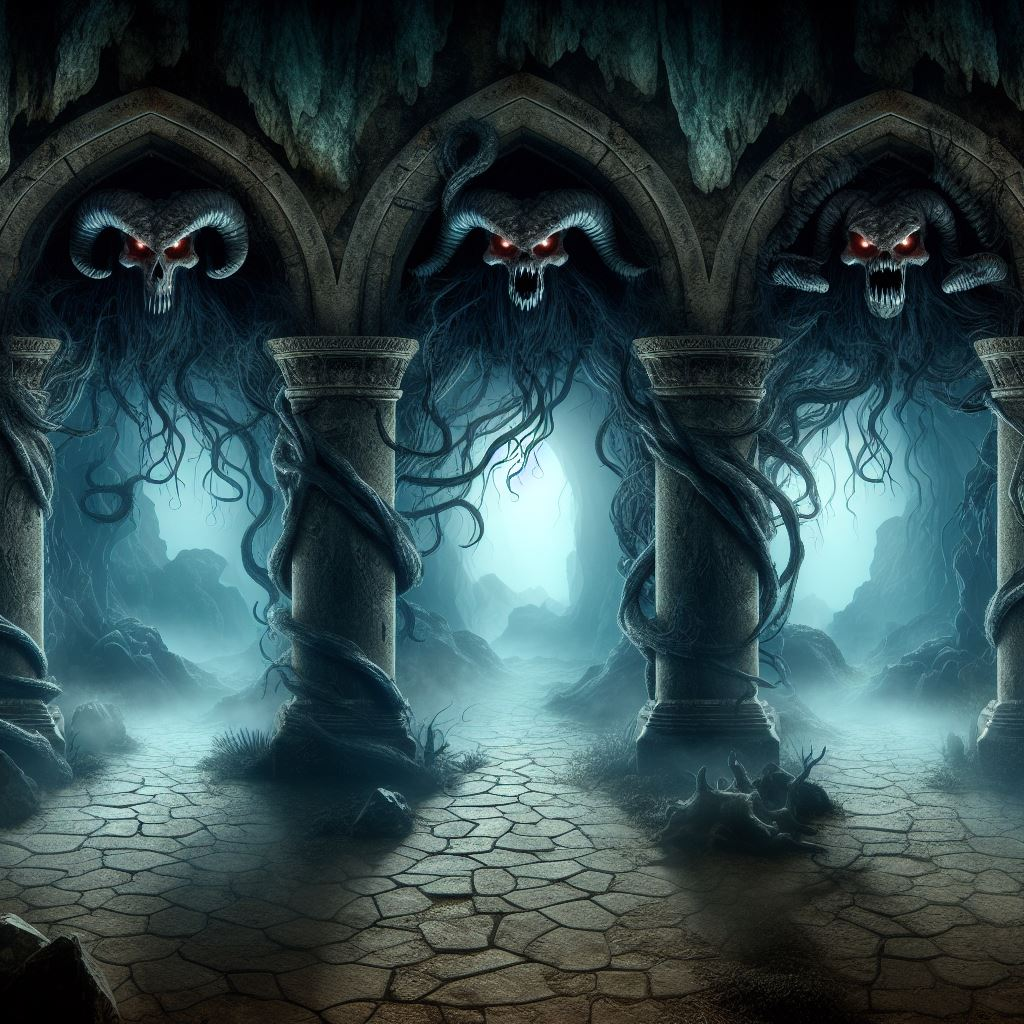
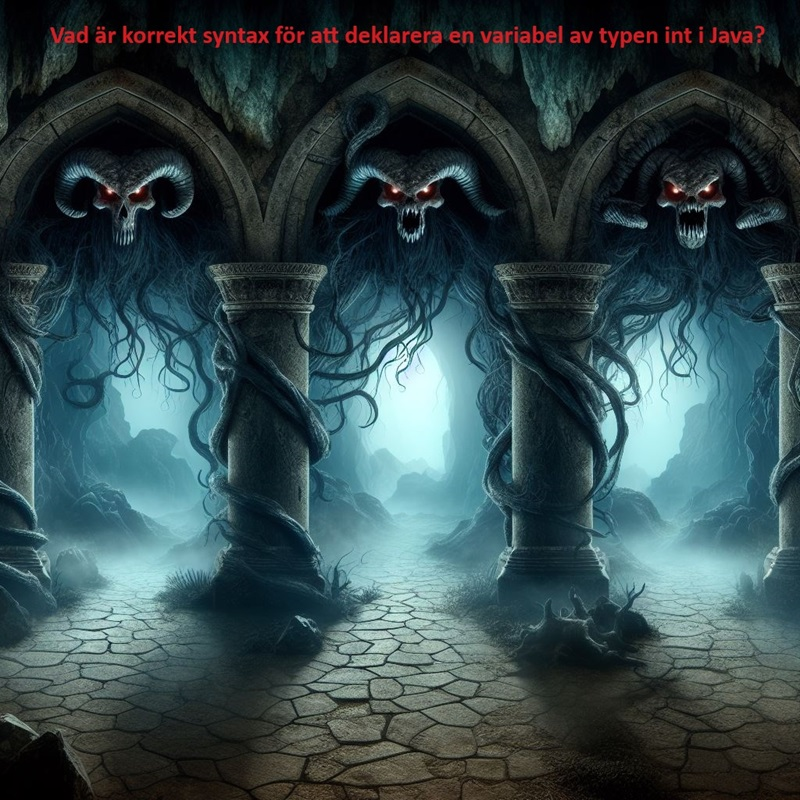
Grotta2 heter nu Path2, func.IncrementDeathCounter heter nu func.Die

Changed region(s): [[0.0625, 0.0312, 0.9688, 0.0625]]

diff --git a/Path2.java b/Path2.java
@@ -1,0 +1,122 @@
+import javax.swing.*;
+import java.awt.*;
+import java.io.IOException;
+
+public class Path2 {
+
+    // Huvudmetod där programmet startar
+    public static void main(String[] args) {
+        FörstaVägskälet();
+    }
+
+    // Metod för det första vägskälet
+    private static void FörstaVägskälet() {
+        // Skapar en array med knappar och visar en dialog med en bild
+        String[] buttons = {"integer x;", "variable x;", "int x;"};
+        int result = showOptionDialog("Första vägskälet", null, "Images/Grotta2_1.jpg", buttons);
+
+        // Utför åtgärder baserat på det valda alternativet
+        try {
+            switch (result) {
+                case 0:
+                    System.out.println("Action 1 Första");
+                    func.Die();
+                    FörstaVägskälet();
+                    break;
+                case 1:
+                    System.out.println("Action 2 Första");
+                    func.Die();
+                    FörstaVägskälet();
+                    break;
+                case 2:
+                    System.out.println("Action 3 Första");
+                    AndraVägskälet();
+                    break;
+                default:
+                    break;
+            }
+        } catch (IOException ex) {
+            ex.printStackTrace();
+        }
+    }
+
+    // Metod för det andra vägskälet
+    private static void AndraVägskälet() {
+        // Skapar en array med knappar och visar en dialog med en bild
+        String[] buttons = {"int numbers[] = new int[5];", "int numbers[5] = {1, 2, 3, 4, 5};", "int[] numbers = new int[];"};
+        int result = showOptionDialog("Andra vägskälet", null, "Images/Grotta2_2.jpg", buttons);
+
+        // Utför åtgärder baserat på det valda alternativet
+        try {
+            switch (result) {
+                case 0:
+                    System.out.println("Action 1 Andra");
+                    TredjeVägskälet();
+                    break;
+                case 1:
+                    System.out.println("Action 2 Andra");
+                    func.Die();
+                    FörstaVägskälet();
+                    break;
+                case 2:
+                    System.out.println("Action 3 Andra");
+                    func.Die();
+                    FörstaVägskälet();
+                    break;
+                default:
+                    break;
+            }
+        } catch (IOException ex) {
+            ex.printStackTrace();
+        }
+    }
+
+    // Metod för det tredje vägskälet
+    private static void TredjeVägskälet() {
+        // Skapar en array med knappar och visar en dialog med en bild
+        String[] buttons = {"loop (int i = 0; i < 5; i++) { }", "for (int i = 0; i < 5; i++) { }", "for (int i = 0; i < 5) { }"};
+        int result = showOptionDialog("Tredje vägskälet", null, "Images/Grotta2_3.jpg", buttons);
+
+        // Utför åtgärder baserat på det valda alternativet
+        try {
+            switch (result) {
+                case 0:
+                    System.out.println("Action 1 Tredje");
+                    func.Die();
+                    FörstaVägskälet();
+                    break;
+                case 1:
+                    System.out.println("Win");
+                    break;
+                case 2:
+                    System.out.println("Action 3 Tredje");
+                    func.Die();
+                    FörstaVägskälet();
+                    break;
+                default:
+                    break;
+            }
+        } catch (IOException ex) {
+            ex.printStackTrace();
+        }
+    }
+
+    // Metod för att visa en dialog med anpassad bakgrundsbild och knappar
+    private static int showOptionDialog(String title, String message, String imagePath, String[] buttons) {
+        // Skapar en anpassad JOptionPane med en bakgrundsbild och knappar
+        JPanel panel = new JPanel(new BorderLayout());
+        panel.add(new JLabel(new ImageIcon(imagePath)), BorderLayout.CENTER);
+
+        int result = JOptionPane.showOptionDialog(
+                null,       // Förälderkomponent (null för standard)
+                panel,      // Panel med anpassad bakgrundsbild
+                title,      // Titel
+                JOptionPane.DEFAULT_OPTION,  // Typ av alternativ
+                JOptionPane.PLAIN_MESSAGE, // Typ av meddelande
+                null,                        // Ikon (null för standard)
+                buttons,                     // Alternativ
+                buttons[0]);                 // Standardalternativ
+
+        return result;
+    }
+}

diff --git a/func.java b/func.java
@@ -7,7 +7,7 @@ public class func {
     // Strängen som ska stå i den filen lagras
     private static final String COUNTER_KEY = "Deathcounter";
 
-    public static void incrementDeathcounter() throws IOException {
+    public static void Die() throws IOException {
         // Hämta det aktuella räknarvärdet från filen
         int currentCount = readJsonFromFile();
         
